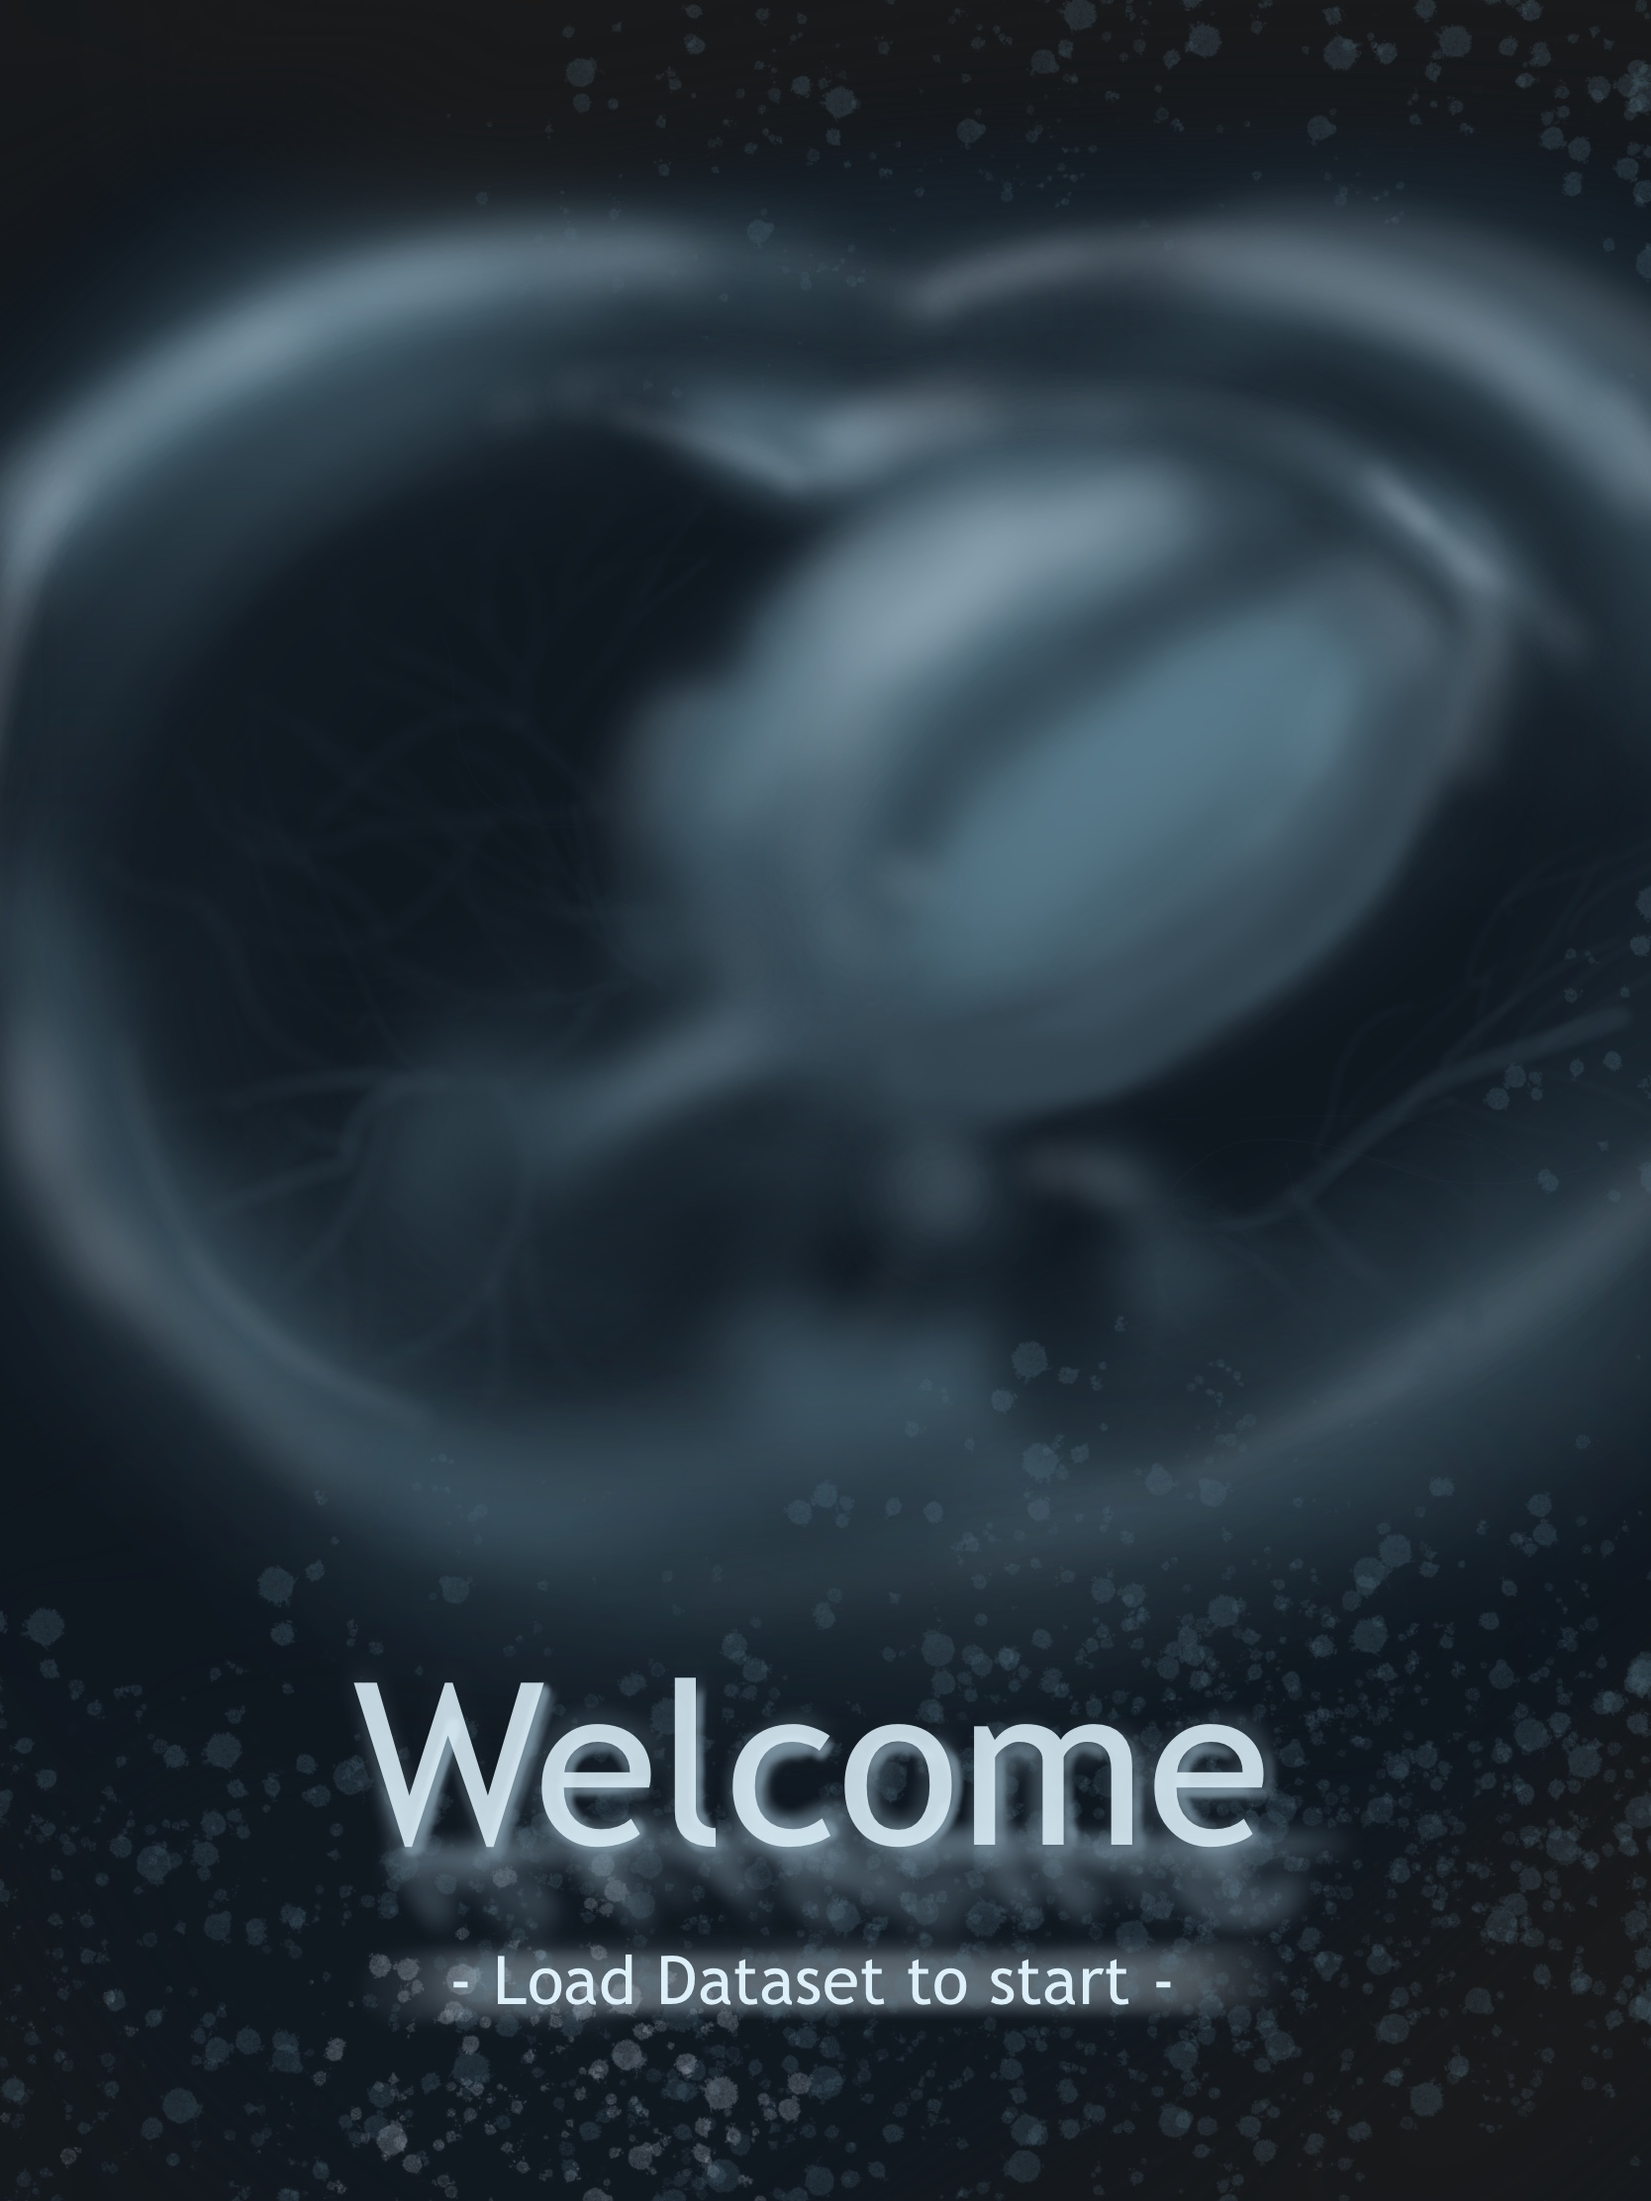
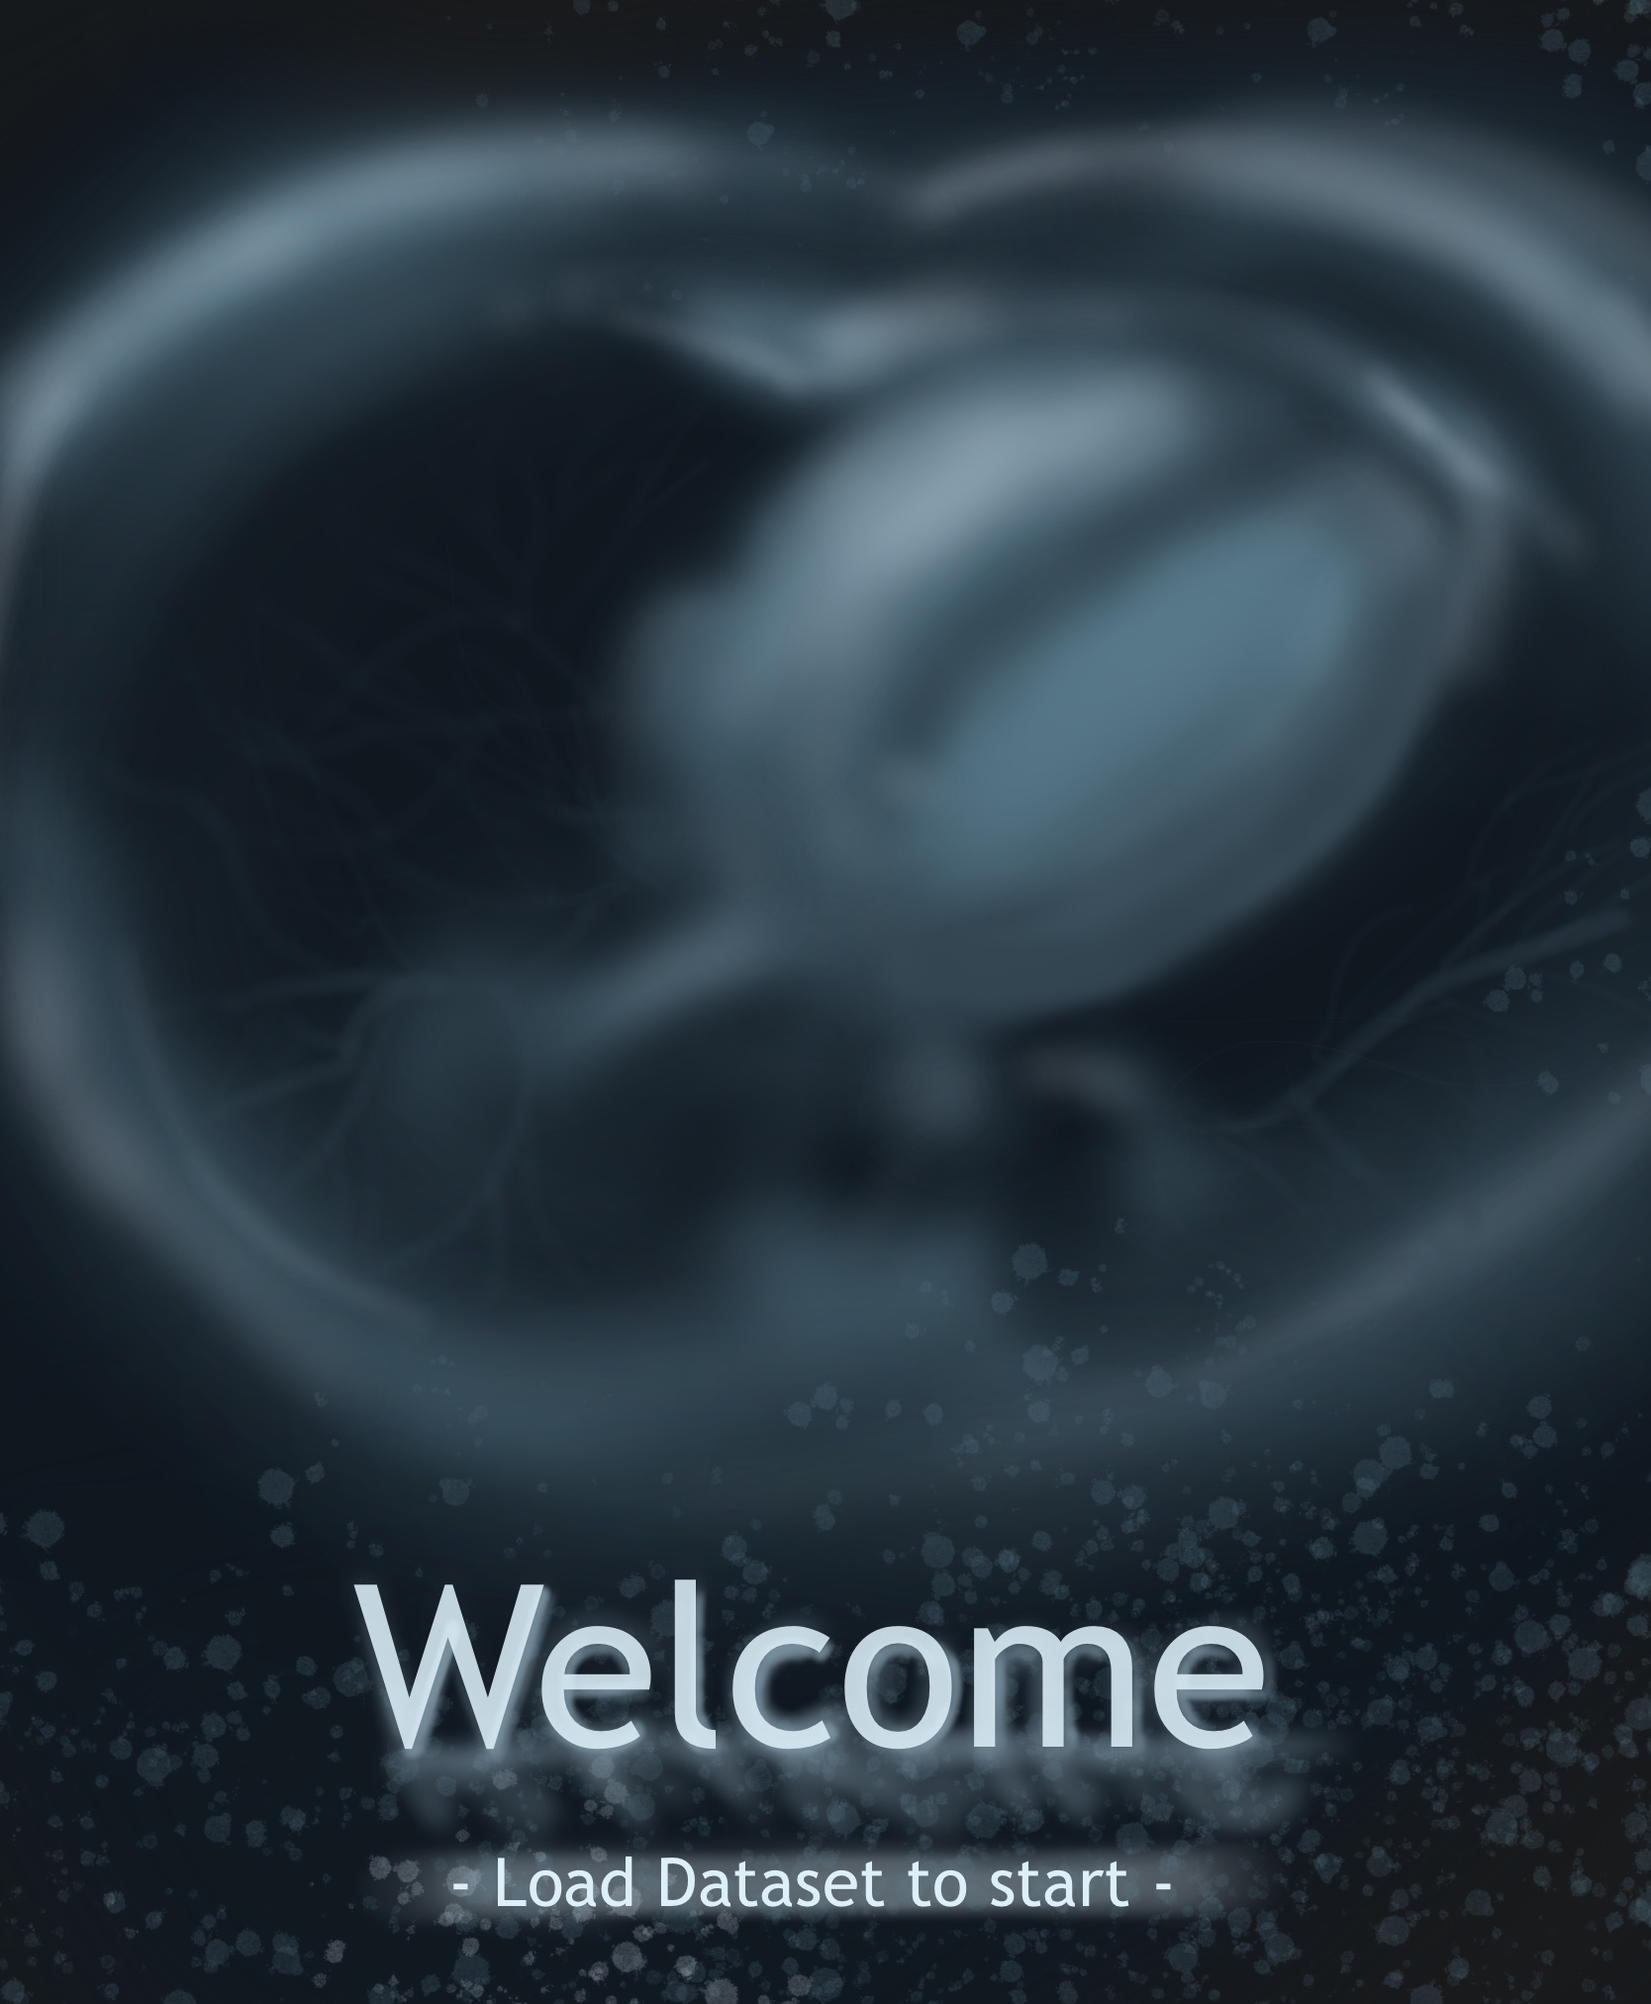
picture menu style

diff --git a/GUIV2.py b/GUIV2.py
@@ -84,6 +84,9 @@ class MainWindow (QMainWindow):
         self.contrast.setValue(255)
         self.contrast.setMaximum(500)
         self.contrast.setMinimum(1)
+        self.label = QLabel("contrast")
+        self.label.setObjectName("contrast")
+        layout.addWidget(self.label)
         layout.addWidget(self.contrast)
         layout.addWidget(self.eraseMode)
         layout.addWidget(self.moveMode)
@@ -198,7 +201,7 @@ class Dicom (FigureCanvas):
         try:
             self.initCanvas()
         except:
-            self.img = self.ax.imshow(plt.imread("Default.jpg"))
+            self.img = self.ax.imshow(plt.imread("Default.jpg"), aspect='auto')
             self.fig.subplots_adjust(bottom=0, top=1, left=0, right=1)
             plt.axis("off")
 
@@ -224,7 +227,7 @@ class Dicom (FigureCanvas):
         plt.tight_layout(pad=3)
         plt.tight_layout(pad=3)  # some bug in matplotlib version so it needs to be called twice
         window.update_fig()
-        print(self.fig.get_size_inches() * self.fig.dpi)
+        #print(self.fig.get_size_inches() * self.fig.dpi)
 
     # scroll wheel
     def wheelEvent(self, event):
@@ -331,15 +334,12 @@ class Dicom (FigureCanvas):
     def erase(self, window):
         if window.moveMode.isChecked():
             window.moveMode.toggle()
-            window.moveMode.setStyleSheet("background-color : #D8EAF3")
             self.cid2 = self.fig.canvas.mpl_disconnect(window.dicom.cid2)
             self.cid2 = self.fig.canvas.mpl_connect('button_release_event', self.release)
         if window.eraseMode.isChecked():
-            window.eraseMode.setStyleSheet("background-color : #B2D6E6")
             self.cid = self.fig.canvas.mpl_disconnect(window.dicom.cid)
             self.cid = self.fig.canvas.mpl_connect('button_press_event', self.erase_and_redraw)
         else:
-            window.eraseMode.setStyleSheet("background-color : #D8EAF3")
             self.reconnect_cids(window)
 
     def erasePoint(self, event):
@@ -377,15 +377,12 @@ class Dicom (FigureCanvas):
     def move(self, window):
         if window.eraseMode.isChecked():
             window.eraseMode.toggle()
-            window.eraseMode.setStyleSheet("background-color : #D8EAF3")
         if window.moveMode.isChecked():
-            window.moveMode.setStyleSheet("background-color : #B2D6E6")
             self.cid = self.fig.canvas.mpl_disconnect(window.dicom.cid)
             self.cid = self.fig.canvas.mpl_connect('button_press_event', self.erasePoint)
             self.cid2 = self.fig.canvas.mpl_disconnect(window.dicom.cid2)
             self.cid2 = self.fig.canvas.mpl_connect('button_release_event', self.movePoint)
         else:
-            window.moveMode.setStyleSheet("background-color : #D8EAF3")
             self.reconnect_cids(window)
 
     def movePoint(self, event):
@@ -397,14 +394,14 @@ class Dicom (FigureCanvas):
 
     def hide(self, window):
         if window.dontShow.isChecked():
-            window.dontShow.setStyleSheet("background-color : #B2D6E6;")
             self.cid = self.fig.canvas.mpl_disconnect(window.dicom.cid)
+            window.dontShow.setStyleSheet("image: url('Icons/ds.png') ;")
             print("hide")
             self.cnv.set_visible(False)
             plt.draw()
         else:
-            window.dontShow.setStyleSheet("background-color : #D8EAF3;")
             self.reconnect_cids(window)
+            window.dontShow.setStyleSheet("image: url('Icons/visible.png') ;")
             print("unhide")
 
 
@@ -454,7 +451,7 @@ class UserInput(QFrame):
     def check_and_set_filepath(self):
         if os.path.exists(self.filepath):
             if self.check_file(self.filepath):
-                print("this ist the study path: " + self.filepath)
+                #print("this ist the study path: " + self.filepath)
                 self.window.dataArray = self.loadData()
                 self.layout.removeWidget(self.errorText)
                 self.window.reset_after_changes()
@@ -526,7 +523,6 @@ class UserInput(QFrame):
                     current_slice = os.path.join(self.filepath, slices[i])
                     dicom = dcm.dcmread(current_slice)
                     data[0].append(dicom)
-                    print(data)
 
             return data
 
